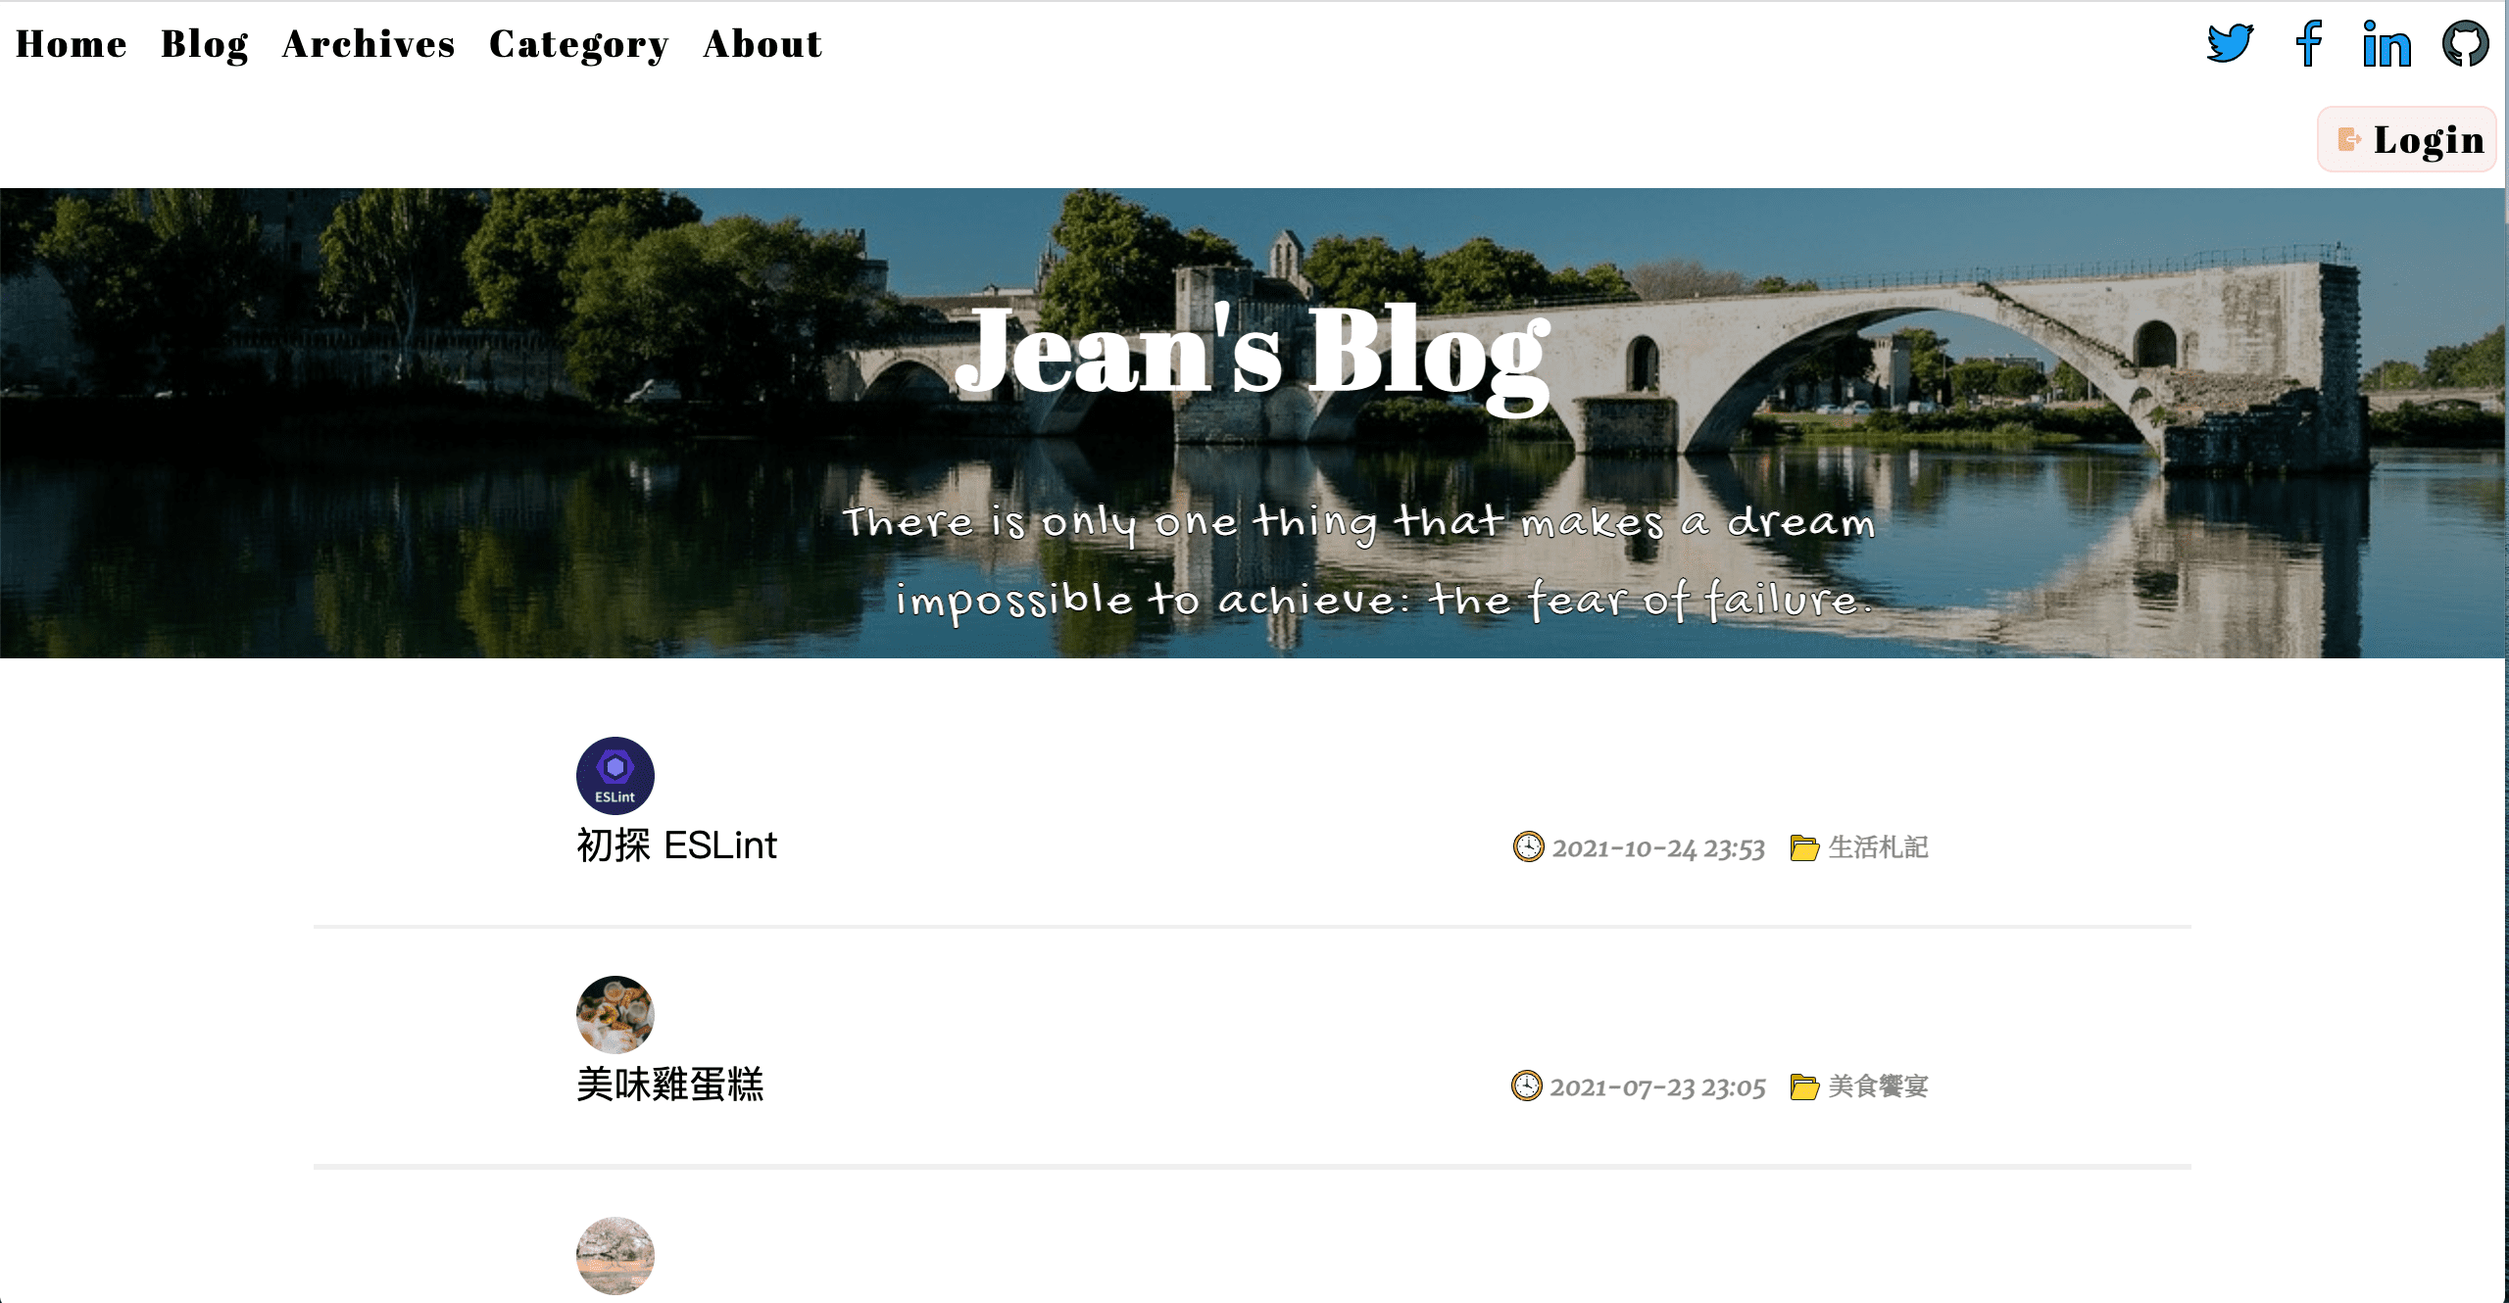
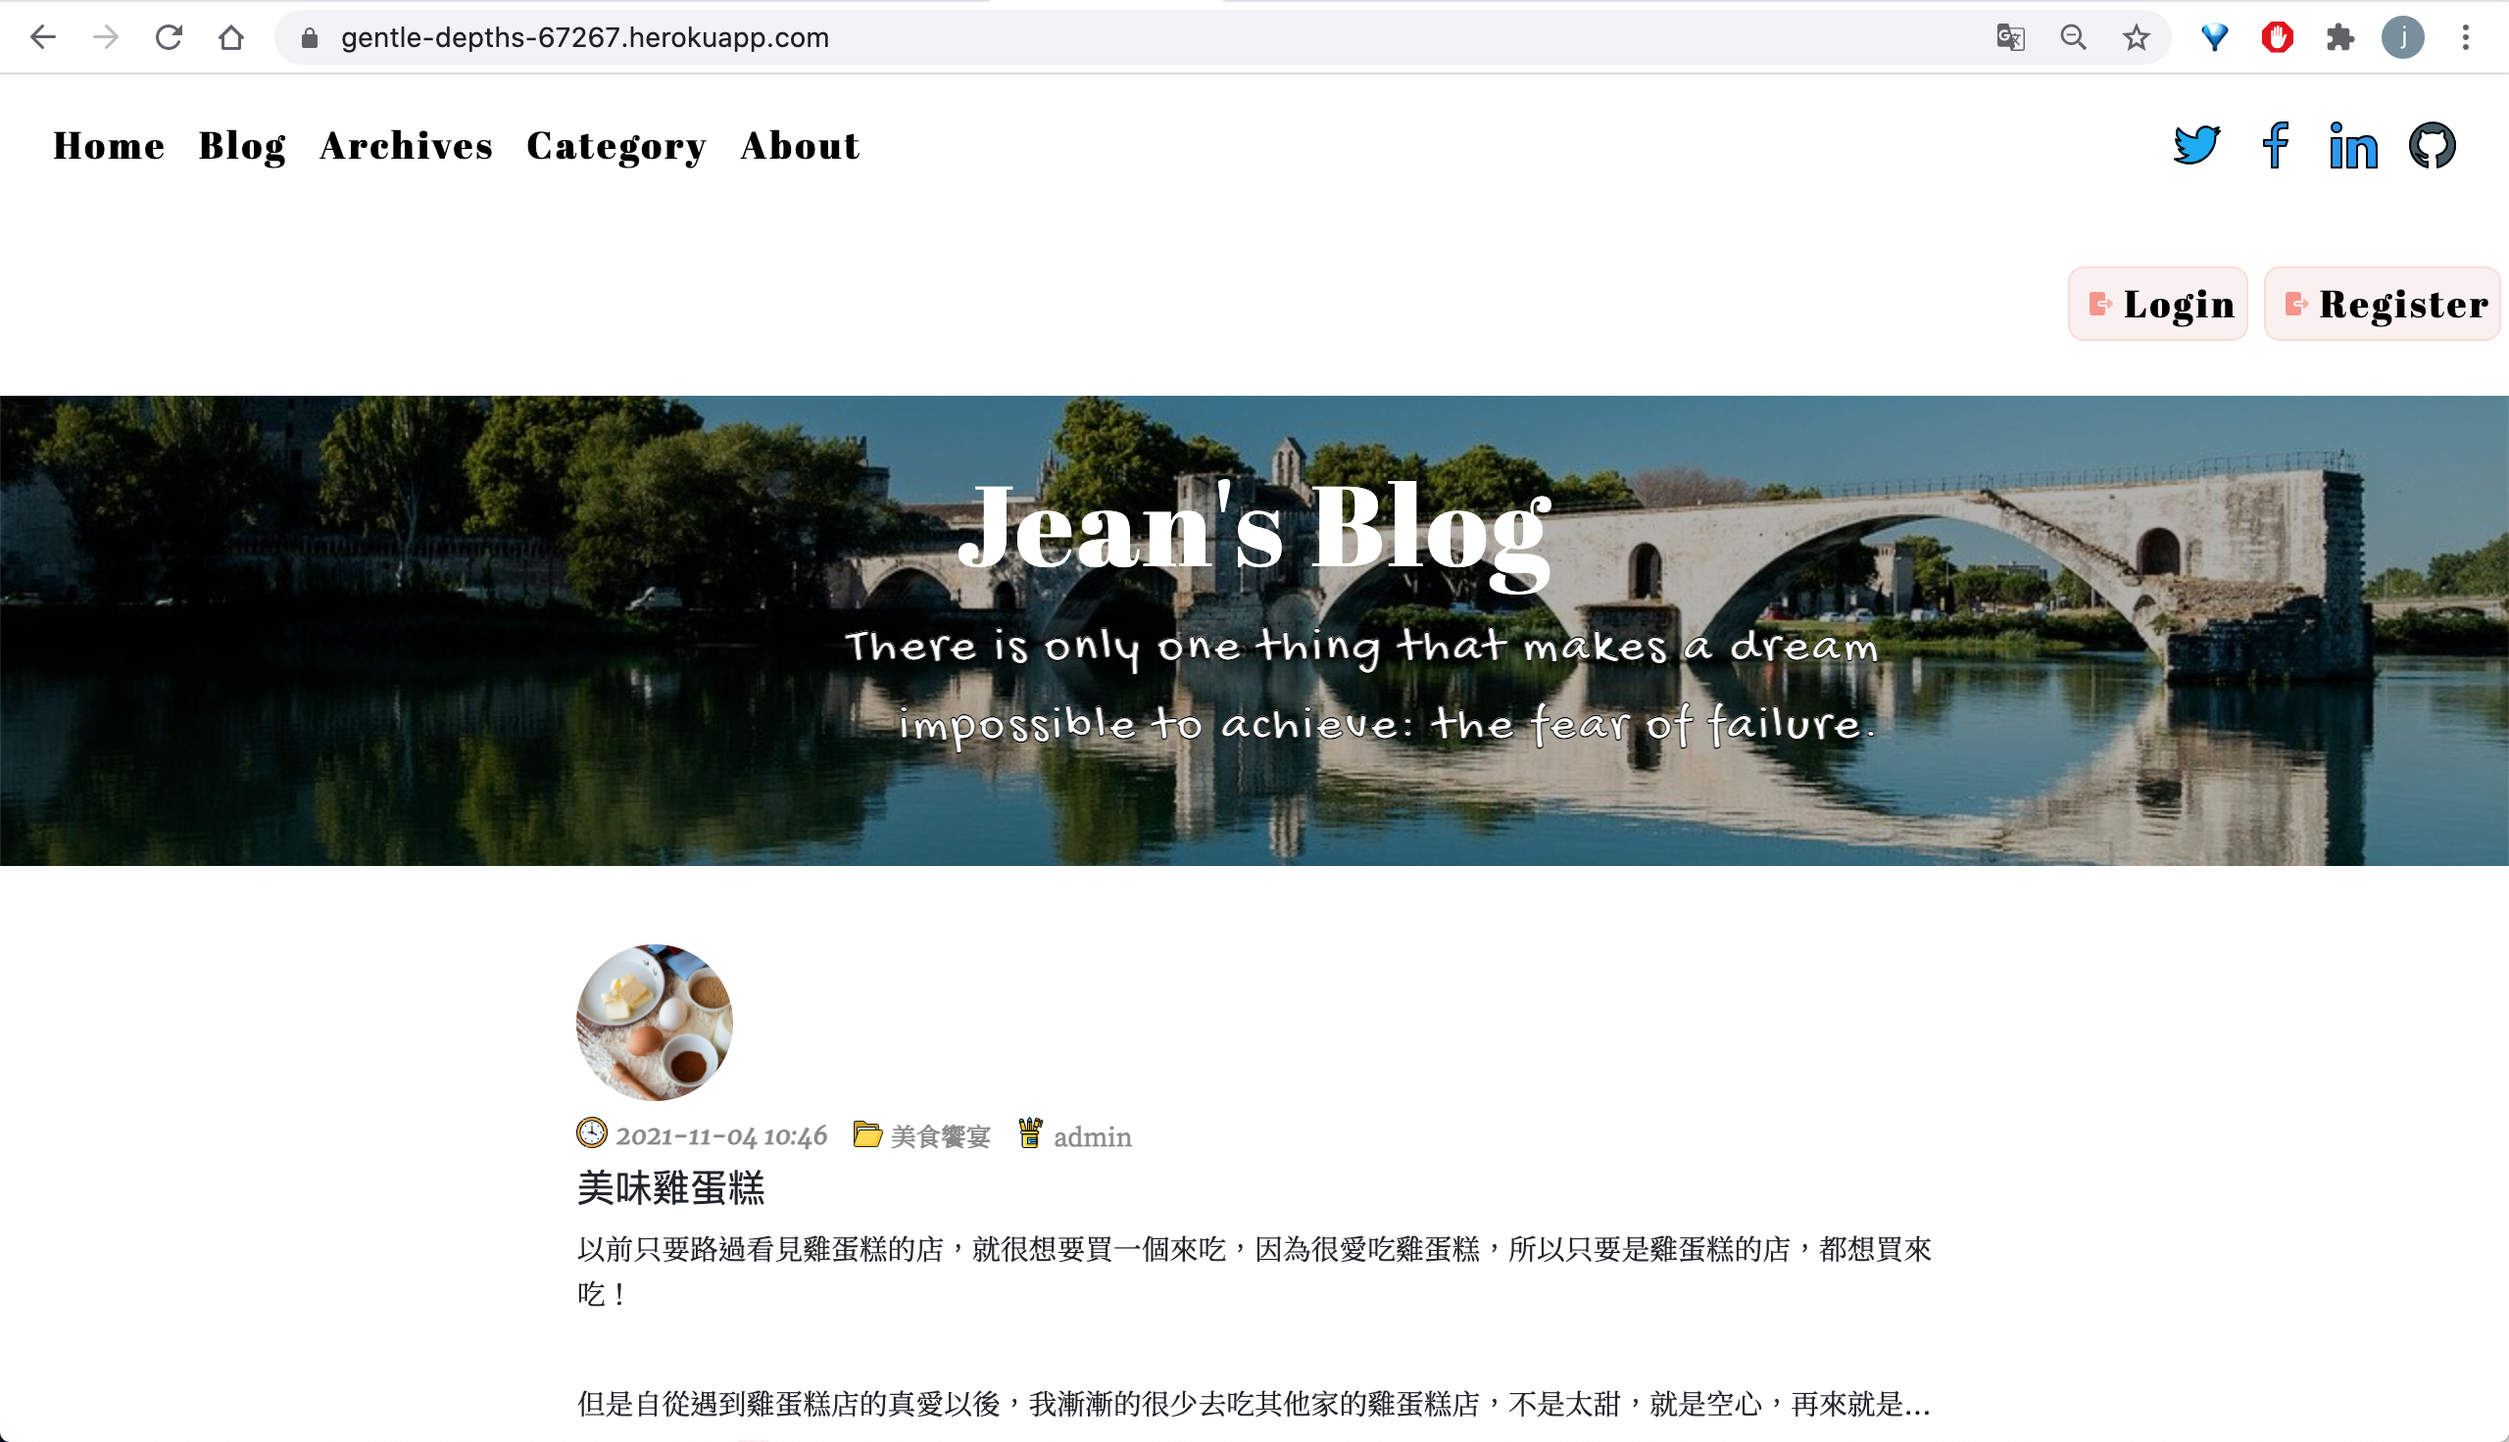
修改 README、文章列表的分類、作者標籤

diff --git a/blog/controllers/blog.js b/blog/controllers/blog.js
@@ -83,7 +83,9 @@ const blogController = {
         imageUrl
       }, {
         include: [
-          { model: User }
+          { model: User,
+            attributes:['id', 'username']
+          }
         ]
       })
 
@@ -97,7 +99,15 @@ const blogController = {
       where: {
         id: req.params.id,
         is_deleted: null
-      }
+      },
+      include: [
+        { model: User,
+          attributes:['id', 'username']
+        },
+        { model: Category,
+          attributes:['id', 'name']
+        }
+      ]
     })
 
     res.render('article_page', {

diff --git a/blog/scripts/click.js b/blog/scripts/click.js
@@ -3,5 +3,6 @@ const articlePost = document.querySelectorAll('.article__post')
 for (let i = 0; i < articlePost.length; i++) {
   articlePost[i].addEventListener('click', (e) => {
     location.href = `${urlBase}/article/${e.currentTarget.id}`
+    console.log(`${urlBase}/article/${e.currentTarget.id}`)
   })
 }

diff --git a/board/index.php b/board/index.php
@@ -77,7 +77,7 @@
 
 <body>
   <div class='warning'>
-    <strong><header>注意！本站為練習用網站，因教學用途刻意忽略資安的實作，註冊時請勿使用任何真實的帳號或密碼。</header></strong>
+    <strong><header>注意！本站為練習用網站，註冊時請勿使用任何真實的帳號或密碼。</header></strong>
   </div>
   <main>
     <div class='board__navbar'>

diff --git a/blog/README.md b/blog/README.md
@@ -1,7 +1,7 @@
 # Jean's Project
 
 ## 部落格
-https://gentle-depths-67267.herokuapp.com/
+[Jean's Blog](https://gentle-depths-67267.herokuapp.com/)
 
 ## 描述
 希望可以做一個自己的部落格，紀錄學習的足跡。
@@ -10,9 +10,10 @@ https://gentle-depths-67267.herokuapp.com/
 正在進行中，預計後續製作以下功能：
 - [ ] 實作分類功能
 - [ ] 實作 view more 功能
-- [ ] 實作分頁機制
+- [x] 實作分頁機制
 - [ ] 新增關於我頁面
 - [ ] 新增文章分類頁面
+- [ ] CKEditor 編輯器，可以撰寫 code block
 
 ## 功能
 - [x] 登入機制，管理員才可以登入
@@ -21,13 +22,13 @@ https://gentle-depths-67267.herokuapp.com/
 - [x] 可以新增、編輯、刪除文章
 - [x] 串接 CKEditor
 - [x] 支援 RWD
-
+- [x] 實作分頁機制
 
 ### 運行環境
 * 後端：Node.js、Express
 * 資料庫：MySQL
 * ORM 框架：Sequelize
-
+* 前端：HTML、CSS、JavaScript
 
 ## Demo
 ## 首頁
@@ -46,18 +47,16 @@ https://gentle-depths-67267.herokuapp.com/
 
 
 ## 技術
-1. `Express`
-2. ORM 框架——`Seqeulize`
+1. Node.js 的框架：`Express`
+2. Node.js ORM 框架 ——`Seqeulize`
 3. `CSS` 預處理器（Scss）
-4. `dotenv` 
-5. `middleware` 做會員是否登入的權限檢查
-6. 
+4. `dotenv` 將敏感資訊放進環境變數
+5. `middleware` ：做會員是否登入的權限檢查
 
 ## 心得記錄
 1. [部署的過程紀錄](https://www.coderbridge.com/@estella00911/d9062ac8990a4200a2fe53138a843fde)
-
-- [x] 部署到免費空間 heroku
-- [x] 環境變數
+- [x] [部署到免費空間 heroku](https://www.coderbridge.com/@estella00911/d9062ac8990a4200a2fe53138a843fde)
+- [x] [環境變數](https://estella00911.coderbridge.io/2021/08/20/dotenv/)
 
 
 ## 架構
@@ -89,9 +88,10 @@ https://gentle-depths-67267.herokuapp.com/
 
 i. `DB_USERNAME`
 ii. `DB_PASSWORD`
-iii. `DB_PORT`
+iii. `DB_HOST`
+iv. `PORT`
 iv. `DB_DATABASE`
-v. `SESSION_SECRET`
+v. `SQL_PORT`
 
 ## 資料庫欄位
 ### Articles
@@ -102,10 +102,11 @@ v. `SESSION_SECRET`
 | Category    | VARCHAR  | 255    |         |     |                 |
 | Content     | TEXT     |        |         |     |                 |
 | is\_deleted | TINYINT  | 1      |         |     |                 |
+| UserId      | INT      | 11     |         |     |                 |
+| CategoryId      | INT      | 11     |         |     |                 |
+| imageUrl    | VARCHAR  |        |         |     |                 |
 | createdAt   | DATETIME |        |         |     |                 |
 | updatedAt   | DATETIME |        |         |     |                 |
-| UserId      | INT      | 11     |         |     |                 |
-| imageUrl    | VARCHAR  |        |         |     |                 |
 ### users
 | Field                | Type     | Length | Default            | Key | Extra           |
 |----------------------|----------|--------|--------------------|-----|-----------------|
@@ -113,3 +114,11 @@ v. `SESSION_SECRET`
 | Username             | VARCHAR  | 64     |                    |     |                 |            |
 | password             | VARCHAR  | 128    |                    |     |                 |
 | created\_at          | DATETIME |        | CURRENT\_TIMESTAMP |     |                 |
+
+### Categories
+| Field       | Type     | Length | Default | Key | Extra           |
+|-------------|----------|--------|---------|-----|-----------------|
+| id          | INT      | 11     |         | PRI | Auto\_increment |
+| name       | VARCHAR  | 255    |         |     |                 |
+| createdAt   | DATETIME |        |         |     |                 |
+| updatedAt   | DATETIME |        |         |     |                 |

diff --git a/README.md b/README.md
@@ -1,5 +1,14 @@
 # Jean's Project
 
 ## 作品集
-1. [PHP 留言板](http://project.estella00911.tw/board/index.php)
-2. [部落格](https://gentle-depths-67267.herokuapp.com/)
+### 1. PHP 留言板
+- [留言板 Demo](http://project.estella00911.tw/board/index.php)
+- [專案](https://github.com/estella00911/project/tree/main/board)
+以 AWS EC2 部署，以 PHP 寫後端，使用 MySQL 關聯式資料庫，連結使用者與留言內容，使用 Session 製作登入功能，並以 Get Method 的方式，在 query string 上增加 errCode 做後端的錯誤訊息提示。
+
+
+### 2. 部落格
+- [部落格 Demo](https://gentle-depths-67267.herokuapp.com/)
+- [專案](https://github.com/estella00911/project/tree/main/blog)
+正在開發中，希望可以做出紀錄自己學習軌跡的部落格。
+使用 MVC 架構以 Node.js 框架 —— Express 寫後端，MySQL 資料庫則使用 ORM 的 Sequelize，另使用 CDN 的 CKEditor 5 編輯器來新增、編輯文章。
